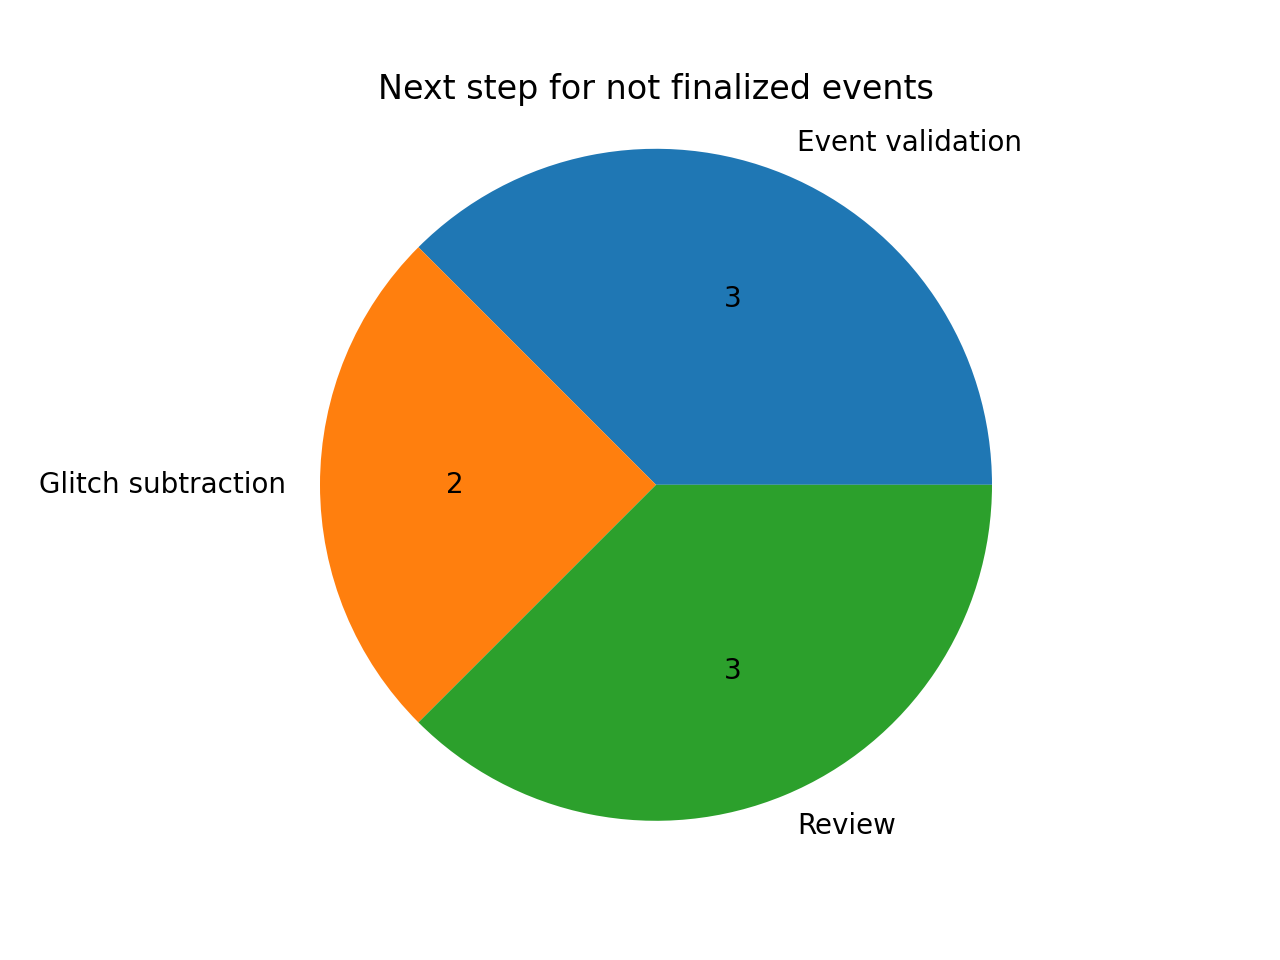
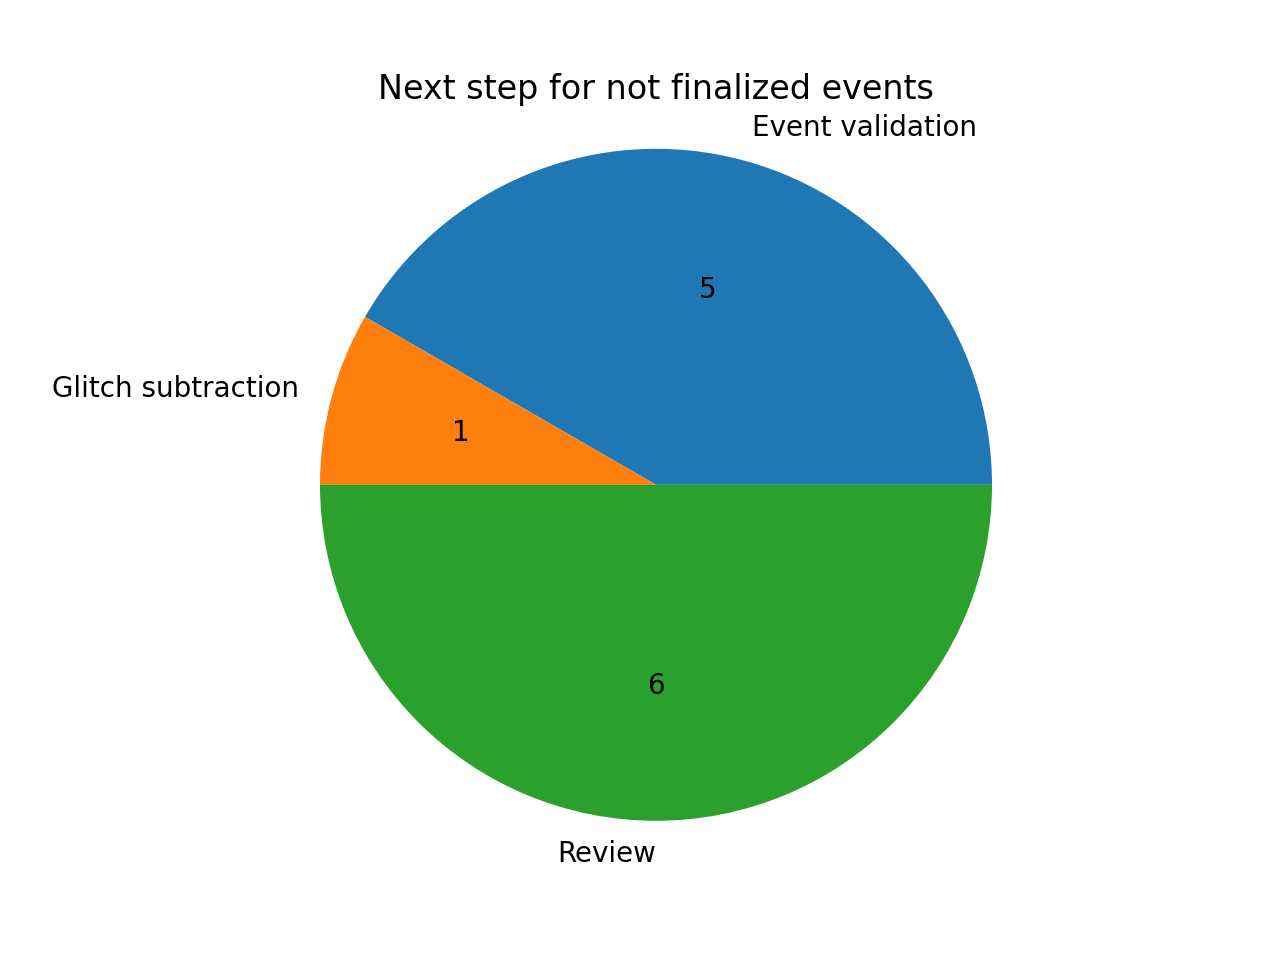
updating website

diff --git a/website/O4a/index.html b/website/O4a/index.html
@@ -357,13 +357,6 @@
 </li>
       
         <li class="md-nav__item">
-  <a href="#events" class="md-nav__link">
-    Events
-  </a>
-  
-</li>
-      
-        <li class="md-nav__item">
   <a href="#summary" class="md-nav__link">
     Summary
   </a>
@@ -422,13 +415,6 @@
         <li class="md-nav__item">
   <a href="#rota" class="md-nav__link">
     Rota
-  </a>
-  
-</li>
-      
-        <li class="md-nav__item">
-  <a href="#events" class="md-nav__link">
-    Events
   </a>
   
 </li>
@@ -557,7 +543,7 @@
 <td>Max Trevor</td>
 <td>Laura Nuttall</td>
 <td>S230723ac, S230726a</td>
-<td></td>
+<td><a href="https://dcc.ligo.org/LIGO-G2301737">YZ</a></td>
 <td></td>
 </tr>
 <tr>
@@ -575,7 +561,7 @@
 <td>Adrian Helmling-Cornell</td>
 <td>Brennan Hughey</td>
 <td>S230805x, S230806ak, S230807f, S230808i</td>
-<td><a href="https://dcc.ligo.org/LIGO-T2300322">AHC</a></td>
+<td><a href="https://dcc.ligo.org/LIGO-T2300322">AHC</a>, <a href="https://dcc.ligo.org/LIGO-G2301737">YZ</a></td>
 <td></td>
 </tr>
 <tr>
@@ -584,7 +570,7 @@
 <td>Debasmita Nandi</td>
 <td>Andrew Lundgren</td>
 <td>S230811n, S230814r, S230814ah</td>
-<td><a href="https://dcc.ligo.org/G2301717-v1">AW</a></td>
+<td><a href="https://dcc.ligo.org/G2301717-v1">AW</a> <a href="https://dcc.ligo.org/G2302035">DN</a></td>
 <td></td>
 </tr>
 <tr>
@@ -593,7 +579,7 @@
 <td>Sudhagar Suyamprakasam</td>
 <td>Adrian HC</td>
 <td>S230819ax, S230820bq, S230822bm</td>
-<td></td>
+<td><a href="https://dcc.ligo.org/LIGO-T2300343">AHC</a></td>
 <td></td>
 </tr>
 <tr>
@@ -637,8 +623,8 @@
 <td>Sudhagar Suyamprakasam</td>
 <td>Anupreeta More</td>
 <td>Derek Davis</td>
-<td>S230922g, S230922q, S230924an, S230927l</td>
-<td></td>
+<td>S230922g, S230922q, S230924an, S230927li, S230927be</td>
+<td><a href="https://dcc.ligo.org/G2302036-v1">SS</a></td>
 <td></td>
 </tr>
 <tr>
@@ -646,13 +632,39 @@
 <td>Tabata Ferreira</td>
 <td>Tabata Ferreira</td>
 <td>Jess McIver</td>
+<td>S230928cb, S230930al, S231001aq</td>
+<td></td>
+<td></td>
+</tr>
+<tr>
+<td>Oct 4</td>
+<td>Shivaraj Kandhasamy</td>
+<td>Shivaraj Kandhasamy</td>
+<td>Laura Nuttall</td>
+<td></td>
+<td></td>
+<td></td>
+</tr>
+<tr>
+<td>Oct 11</td>
+<td>Shania Nichols</td>
+<td>Shania Nichols</td>
+<td>Brennan Hughey</td>
+<td></td>
+<td></td>
+<td></td>
+</tr>
+<tr>
+<td>## Events</td>
+<td></td>
+<td></td>
+<td></td>
 <td></td>
 <td></td>
 <td></td>
 </tr>
 </tbody>
 </table>
-<h2 id="events">Events</h2>
 <table>
 <thead>
 <tr>
@@ -1129,11 +1141,11 @@
 </tr>
 <tr>
 <td align="left">S230830b</td>
-<td align="left">Glitch subtraction (<a href="mailto:sophie.hourihane@ligo.org">contact</a>)</td>
-<td align="left">DQ issues</td>
-<td align="left">Noise mitigation required</td>
-<td align="left">In progress</td>
-<td align="left">No</td>
+<td align="left">Retracted</td>
+<td align="left">Retracted</td>
+<td align="left">Retracted</td>
+<td align="left">Retracted</td>
+<td align="left">Yes</td>
 <td align="left"><a href="https://gracedb.ligo.org//superevents/S230830b">GraceDB</a>, <a href="https://ldas-jobs.ligo.caltech.edu/~detchar/summary/day/20230830">Detectors</a>, <a href="https://ldas-jobs.ligo.caltech.edu/~dqr/o4dqr/online/events/202308/S230830b/">DQR</a>, <a href="https://dqr.ligo.caltech.edu/ev_forms/summary/S230830b">EV</a></td>
 <td align="left"></td>
 </tr>
@@ -1209,21 +1221,21 @@
 </tr>
 <tr>
 <td align="left">S230922g</td>
-<td align="left">Review (<a href="mailto:laura.nuttall@port.ac.uk">contact</a>)</td>
+<td align="left">None (<a href="mailto:laura.nuttall@port.ac.uk">contact</a>)</td>
 <td align="left">DQ issues</td>
-<td align="left">Not ready</td>
-<td align="left">N/A</td>
-<td align="left">No</td>
+<td align="left">No DQ issues</td>
+<td align="left">Not required</td>
+<td align="left">Yes</td>
 <td align="left"><a href="https://gracedb.ligo.org//superevents/S230922g">GraceDB</a>, <a href="https://ldas-jobs.ligo.caltech.edu/~detchar/summary/day/20230922">Detectors</a>, <a href="https://ldas-jobs.ligo.caltech.edu/~dqr/o4dqr/online/events/202309/S230922g/">DQR</a>, <a href="https://dqr.ligo.caltech.edu/ev_forms/summary/S230922g">EV</a></td>
 <td align="left"></td>
 </tr>
 <tr>
 <td align="left">S230922q</td>
-<td align="left">Review (<a href="mailto:laura.nuttall@port.ac.uk">contact</a>)</td>
+<td align="left">None (<a href="mailto:laura.nuttall@port.ac.uk">contact</a>)</td>
 <td align="left">DQ issues</td>
-<td align="left">Not ready</td>
-<td align="left">N/A</td>
-<td align="left">No</td>
+<td align="left">No DQ issues</td>
+<td align="left">Not required</td>
+<td align="left">Yes</td>
 <td align="left"><a href="https://gracedb.ligo.org//superevents/S230922q">GraceDB</a>, <a href="https://ldas-jobs.ligo.caltech.edu/~detchar/summary/day/20230922">Detectors</a>, <a href="https://ldas-jobs.ligo.caltech.edu/~dqr/o4dqr/online/events/202309/S230922q/">DQR</a>, <a href="https://dqr.ligo.caltech.edu/ev_forms/summary/S230922q">EV</a></td>
 <td align="left"></td>
 </tr>
@@ -1239,11 +1251,11 @@
 </tr>
 <tr>
 <td align="left">S230927l</td>
-<td align="left">Review (<a href="mailto:laura.nuttall@port.ac.uk">contact</a>)</td>
+<td align="left">None (<a href="mailto:laura.nuttall@port.ac.uk">contact</a>)</td>
 <td align="left">DQ issues</td>
-<td align="left">Not ready</td>
-<td align="left">N/A</td>
-<td align="left">No</td>
+<td align="left">No DQ issues</td>
+<td align="left">Not required</td>
+<td align="left">Yes</td>
 <td align="left"><a href="https://gracedb.ligo.org//superevents/S230927l">GraceDB</a>, <a href="https://ldas-jobs.ligo.caltech.edu/~detchar/summary/day/20230927">Detectors</a>, <a href="https://ldas-jobs.ligo.caltech.edu/~dqr/o4dqr/online/events/202309/S230927l/">DQR</a>, <a href="https://dqr.ligo.caltech.edu/ev_forms/summary/S230927l">EV</a></td>
 <td align="left"></td>
 </tr>
@@ -1259,8 +1271,8 @@
 </tr>
 <tr>
 <td align="left">S230928cb</td>
-<td align="left">Event validation (<a href="mailto:tabata.ferreira@ligo.org">contact</a>)</td>
-<td align="left">Not ready</td>
+<td align="left">Review (<a href="mailto:laura.nuttall@port.ac.uk">contact</a>)</td>
+<td align="left">No DQ issues</td>
 <td align="left">Not ready</td>
 <td align="left">N/A</td>
 <td align="left">No</td>
@@ -1269,8 +1281,8 @@
 </tr>
 <tr>
 <td align="left">S230930al</td>
-<td align="left">Event validation (<a href="mailto:tabata.ferreira@ligo.org">contact</a>)</td>
-<td align="left">Not ready</td>
+<td align="left">Review (<a href="mailto:laura.nuttall@port.ac.uk">contact</a>)</td>
+<td align="left">DQ issues</td>
 <td align="left">Not ready</td>
 <td align="left">N/A</td>
 <td align="left">No</td>
@@ -1279,12 +1291,42 @@
 </tr>
 <tr>
 <td align="left">S231001aq</td>
-<td align="left">Event validation (<a href="mailto:tabata.ferreira@ligo.org">contact</a>)</td>
-<td align="left">Not ready</td>
+<td align="left">Review (<a href="mailto:laura.nuttall@port.ac.uk">contact</a>)</td>
+<td align="left">DQ issues</td>
 <td align="left">Not ready</td>
 <td align="left">N/A</td>
 <td align="left">No</td>
 <td align="left"><a href="https://gracedb.ligo.org//superevents/S231001aq">GraceDB</a>, <a href="https://ldas-jobs.ligo.caltech.edu/~detchar/summary/day/20231001">Detectors</a>, <a href="https://ldas-jobs.ligo.caltech.edu/~dqr/o4dqr/online/events/202310/S231001aq/">DQR</a>, <a href="https://dqr.ligo.caltech.edu/ev_forms/summary/S231001aq">EV</a></td>
+<td align="left"></td>
+</tr>
+<tr>
+<td align="left">S231005j</td>
+<td align="left">Event validation (<a href="mailto:shivaraj@iucaa.in">contact</a>)</td>
+<td align="left">Not ready</td>
+<td align="left">Not ready</td>
+<td align="left">N/A</td>
+<td align="left">No</td>
+<td align="left"><a href="https://gracedb.ligo.org//superevents/S231005j">GraceDB</a>, <a href="https://ldas-jobs.ligo.caltech.edu/~detchar/summary/day/20231005">Detectors</a>, <a href="https://ldas-jobs.ligo.caltech.edu/~dqr/o4dqr/online/events/202310/S231005j/">DQR</a>, <a href="https://dqr.ligo.caltech.edu/ev_forms/summary/S231005j">EV</a></td>
+<td align="left"></td>
+</tr>
+<tr>
+<td align="left">S231005ah</td>
+<td align="left">Event validation (<a href="mailto:shivaraj@iucaa.in">contact</a>)</td>
+<td align="left">Not ready</td>
+<td align="left">Not ready</td>
+<td align="left">N/A</td>
+<td align="left">No</td>
+<td align="left"><a href="https://gracedb.ligo.org//superevents/S231005ah">GraceDB</a>, <a href="https://ldas-jobs.ligo.caltech.edu/~detchar/summary/day/20231005">Detectors</a>, <a href="https://ldas-jobs.ligo.caltech.edu/~dqr/o4dqr/online/events/202310/S231005ah/">DQR</a>, <a href="https://dqr.ligo.caltech.edu/ev_forms/summary/S231005ah">EV</a></td>
+<td align="left"></td>
+</tr>
+<tr>
+<td align="left">S231008ap</td>
+<td align="left">Event validation (<a href="mailto:shivaraj@iucaa.in">contact</a>)</td>
+<td align="left">Not ready</td>
+<td align="left">Not ready</td>
+<td align="left">N/A</td>
+<td align="left">No</td>
+<td align="left"><a href="https://gracedb.ligo.org//superevents/S231008ap">GraceDB</a>, <a href="https://ldas-jobs.ligo.caltech.edu/~detchar/summary/day/20231008">Detectors</a>, <a href="https://ldas-jobs.ligo.caltech.edu/~dqr/o4dqr/online/events/202310/S231008ap/">DQR</a>, <a href="https://dqr.ligo.caltech.edu/ev_forms/summary/S231008ap">EV</a></td>
 <td align="left"></td>
 </tr>
 </tbody>
@@ -1409,7 +1451,7 @@
 
   
   <div>
-    Last updated October 03, 2023.
+    Last updated October 11, 2023.
   </div>
   
 </div>

diff --git a/website/RRT/index.html b/website/RRT/index.html
@@ -571,12 +571,12 @@
 </tr>
 <tr>
 <td>October 25</td>
-<td></td>
+<td>Adrian Helmling-Cornell</td>
 <td></td>
 </tr>
 <tr>
 <td>November 1</td>
-<td>Adrian Helmling-Cornell</td>
+<td>Andy Lundgren</td>
 <td></td>
 </tr>
 <tr>
@@ -722,7 +722,7 @@
 
   
   <div>
-    Last updated October 03, 2023.
+    Last updated October 11, 2023.
   </div>
   
 </div>

diff --git a/website/index.html b/website/index.html
@@ -491,7 +491,7 @@ If you have any questions regarding the event validation, please contact Sidd (<
 
   
   <div>
-    Last updated October 03, 2023.
+    Last updated October 11, 2023.
   </div>
   
 </div>

diff --git a/website/404.html b/website/404.html
@@ -435,7 +435,7 @@
 
   
   <div>
-    Last updated October 03, 2023.
+    Last updated October 11, 2023.
   </div>
   
 </div>

diff --git a/website/ER15/index.html b/website/ER15/index.html
@@ -669,7 +669,7 @@
 
   
   <div>
-    Last updated October 03, 2023.
+    Last updated October 11, 2023.
   </div>
   
 </div>

diff --git a/website/EVforms/index.html b/website/EVforms/index.html
@@ -711,7 +711,7 @@
 
   
   <div>
-    Last updated October 03, 2023.
+    Last updated October 11, 2023.
   </div>
   
 </div>

diff --git a/website/links/index.html b/website/links/index.html
@@ -497,7 +497,7 @@
 
   
   <div>
-    Last updated October 03, 2023.
+    Last updated October 11, 2023.
   </div>
   
 </div>

diff --git a/website/training/index.html b/website/training/index.html
@@ -618,7 +618,7 @@
 
   
   <div>
-    Last updated October 03, 2023.
+    Last updated October 11, 2023.
   </div>
   
 </div>
